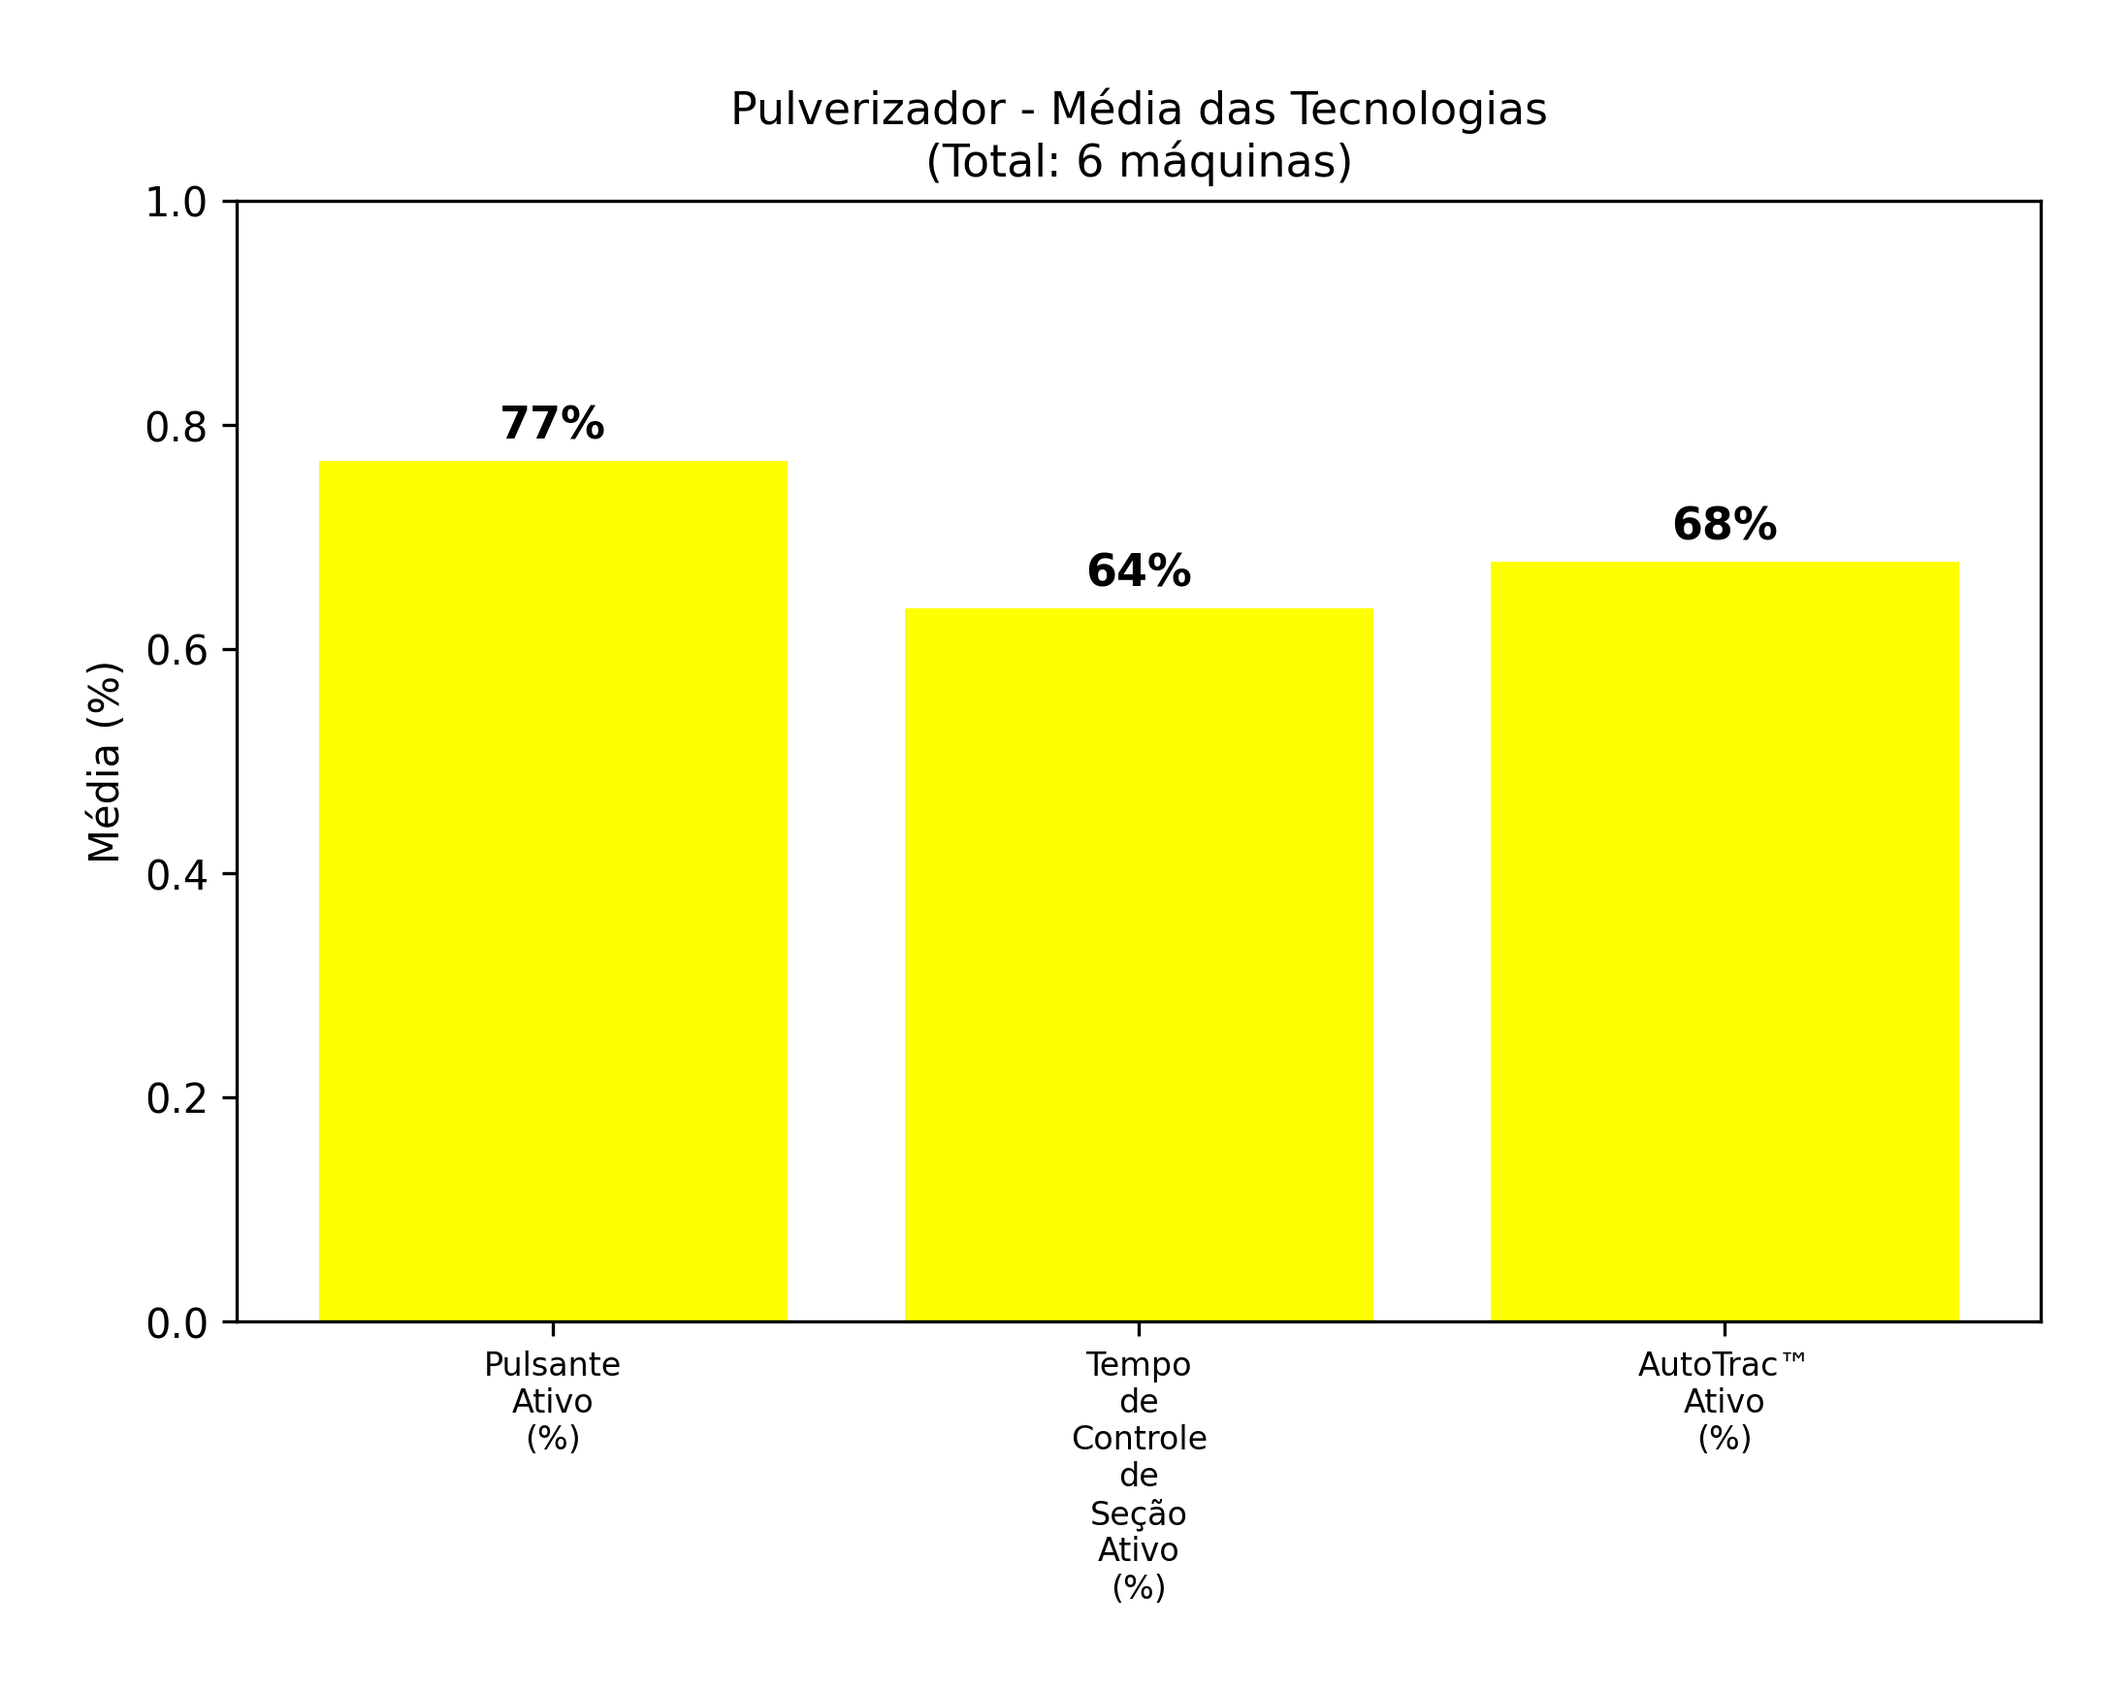
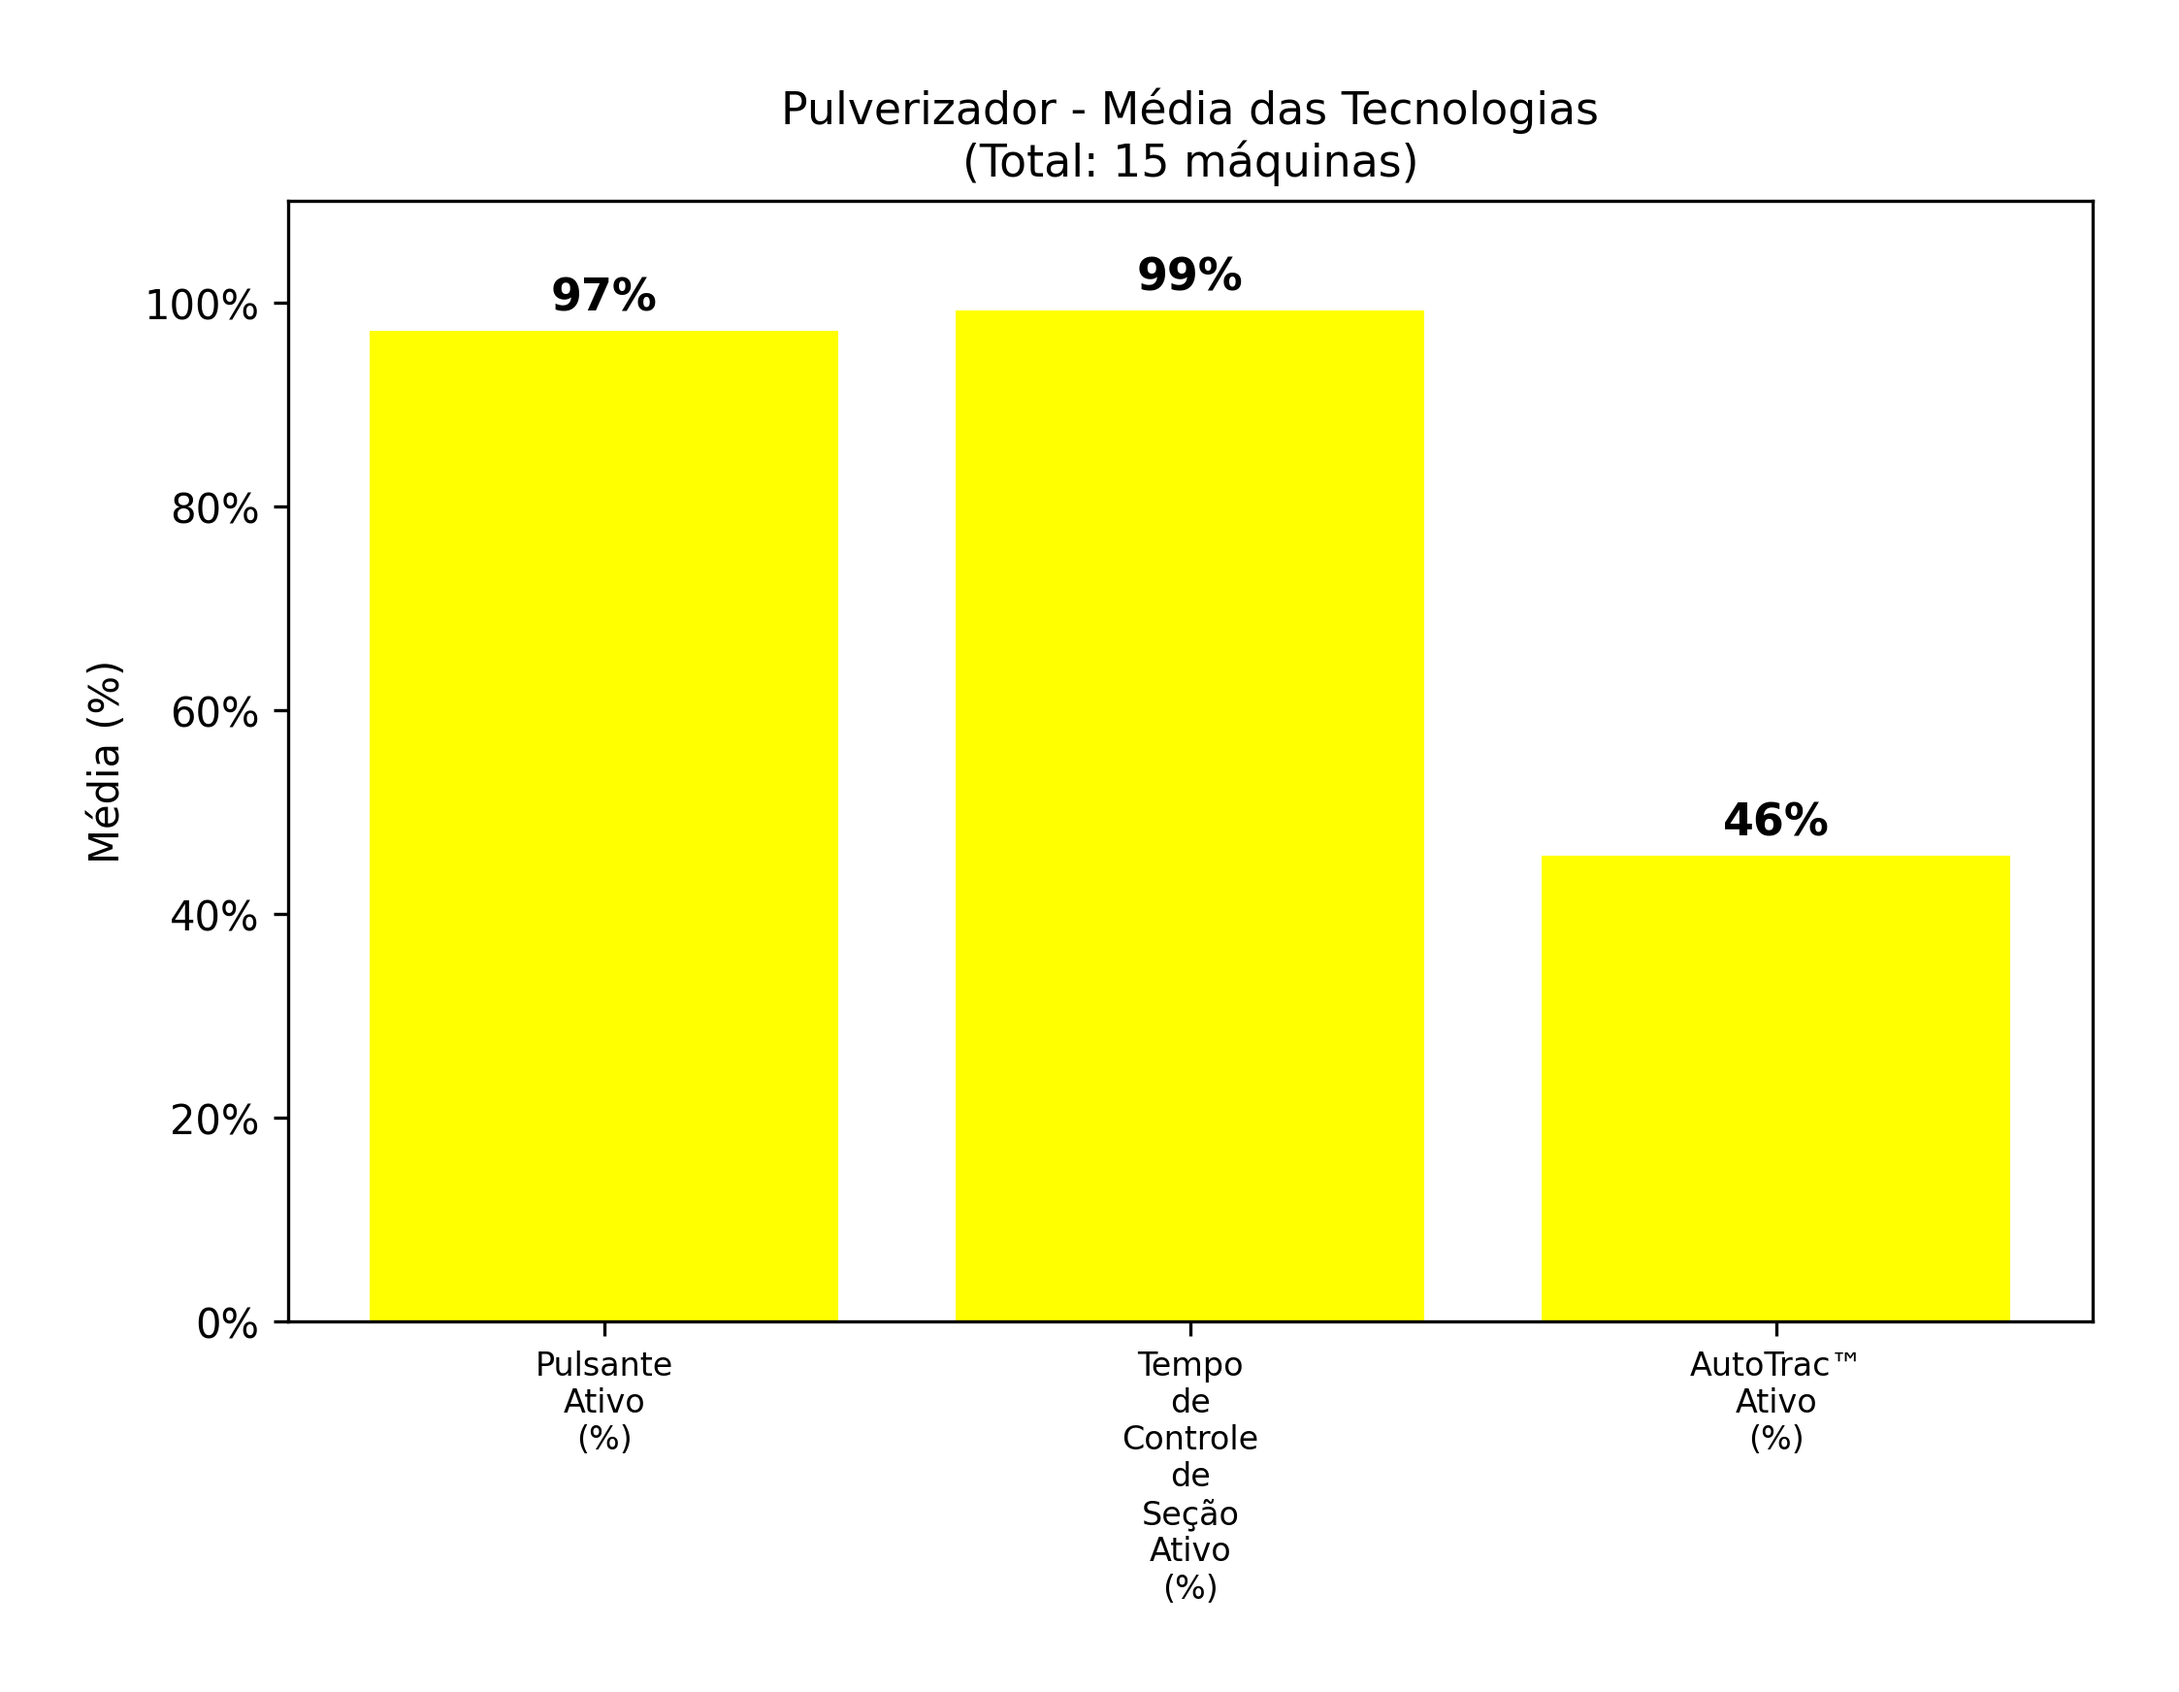
novas atualizações do código

diff --git a/app.py b/app.py
@@ -8,6 +8,7 @@ import matplotlib.pyplot as plt
 import matplotlib.colors as mcolors
 from datetime import datetime
 import numpy as np
+import matplotlib.ticker as mtick
 
 
 # ==============================
@@ -733,9 +734,10 @@ if uploaded_file:
                 )
 
             ax.set_title(f"{tipo} - Média das Tecnologias\n(Total: {qtd} máquinas)", fontsize=11)
-            ax.set_ylim(0, 1)
+            ax.set_ylim(0, 1.1)  # um pouco acima de 100%
             ax.set_ylabel("Média (%)")
-            ax.tick_params(axis='x', labelsize=8)  # Legenda eixo X menor
+            ax.tick_params(axis='x', labelsize=8)
+            ax.yaxis.set_major_formatter(mtick.PercentFormatter(1.0))
 
             #plt.tight_layout()
             st.pyplot(fig)
